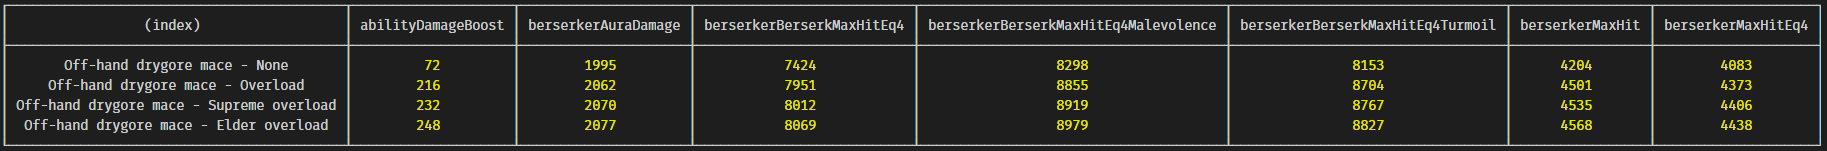
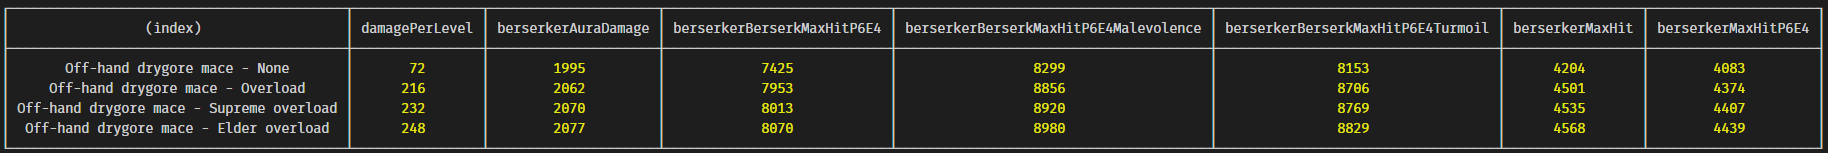
docs: Update sample

diff --git a/Readme.md b/Readme.md
@@ -46,30 +46,33 @@ Actual: 3577
 	Main-hand: 2.5*99 + 864*1 + 196
 	Off-hand: 1.25*99 + 432*1 + 0.5*196
 	Ability multiplier with P6E4 1.8254799999999998
+Damage per level
+	Expected:  5.1136 7.8688
+	Actual:  5.1136 7.8688
 --------
 Damage with None (+0) : 1960
-	Ability damage gets +0
+	Ability damage gets (P6E4) +0
 	Max hit: 3684
 	Max hit (P6E4): 3577
 	Berserk max hit (P6E4): 7154
 	Berserk Turmoil max hit (P6E4): 7869
 	Berserk Malevolence max hit (P6E4): 8012
 Damage with Overload (+17) : 2025
-	Ability damage gets +136
+	Ability damage gets (P6E4) +136
 	Max hit: 3943
 	Max hit (P6E4): 3832
 	Berserk max hit (P6E4): 7664
 	Berserk Turmoil max hit (P6E4): 8430
 	Berserk Malevolence max hit (P6E4): 8583
 Damage with Supreme overload (+19) : 2032
-	Ability damage gets +152
+	Ability damage gets (P6E4) +152
 	Max hit: 3972
 	Max hit (P6E4): 3861
 	Berserk max hit (P6E4): 7722
 	Berserk Turmoil max hit (P6E4): 8494
 	Berserk Malevolence max hit (P6E4): 8648
 Damage with Elder overload (+21) : 2040
-	Ability damage gets +168
+	Ability damage gets (P6E4) +168
 	Max hit: 4003
 	Max hit (P6E4): 3891
 	Berserk max hit (P6E4): 7782
@@ -79,51 +82,51 @@ Damage with Elder overload (+21) : 2040
 Off-hand: Off-hand drygore mace
 Damage with Berserker aura and None (level 108) : 1995
 	Ability damage gets +72
-	Ability damage with Eq4 gets +70.56
+	Ability damage with P6E4 gets +70.8192
 	Berserker Max hit: 4204
 	Max hit (Eq4): 4083
-	Berserker berserk max hit (Eq4): 7424
+	Berserker berserk max hit (Eq4): 7425
 	Berserker berserk turmoil max hit (Eq4): 8153
-	Berserker berserk malevolence max hit (Eq4): 8298
+	Berserker berserk malevolence max hit (Eq4): 8299
 --------
 Off-hand: Off-hand drygore mace
 Damage with Berserker aura and Overload (level 126) : 2062
 	Ability damage gets +216
-	Ability damage with Eq4 gets +211.68
+	Ability damage with P6E4 gets +212.4576
 	Berserker Max hit: 4501
-	Max hit (Eq4): 4373
-	Berserker berserk max hit (Eq4): 7951
-	Berserker berserk turmoil max hit (Eq4): 8704
-	Berserker berserk malevolence max hit (Eq4): 8855
+	Max hit (Eq4): 4374
+	Berserker berserk max hit (Eq4): 7953
+	Berserker berserk turmoil max hit (Eq4): 8706
+	Berserker berserk malevolence max hit (Eq4): 8856
 --------
 Off-hand: Off-hand drygore mace
 Damage with Berserker aura and Supreme overload (level 128) : 2070
 	Ability damage gets +232
-	Ability damage with Eq4 gets +227.36
+	Ability damage with P6E4 gets +228.1952
 	Berserker Max hit: 4535
-	Max hit (Eq4): 4406
-	Berserker berserk max hit (Eq4): 8012
-	Berserker berserk turmoil max hit (Eq4): 8767
-	Berserker berserk malevolence max hit (Eq4): 8919
+	Max hit (Eq4): 4407
+	Berserker berserk max hit (Eq4): 8013
+	Berserker berserk turmoil max hit (Eq4): 8769
+	Berserker berserk malevolence max hit (Eq4): 8920
 --------
 Off-hand: Off-hand drygore mace
 Damage with Berserker aura and Elder overload (level 130) : 2077
 	Ability damage gets +248
-	Ability damage with Eq4 gets +243.04
+	Ability damage with P6E4 gets +243.9328
 	Berserker Max hit: 4568
-	Max hit (Eq4): 4438
-	Berserker berserk max hit (Eq4): 8069
-	Berserker berserk turmoil max hit (Eq4): 8827
-	Berserker berserk malevolence max hit (Eq4): 8979
+	Max hit (Eq4): 4439
+	Berserker berserk max hit (Eq4): 8070
+	Berserker berserk turmoil max hit (Eq4): 8829
+	Berserker berserk malevolence max hit (Eq4): 8980
 --------
-┌──────────────────────────────────────────┬────────────────────┬─────────────────────┬───────────────────────────┬──────────────────────────────────────┬──────────────────────────────────┬─────────────────┬────────────────────┐
-│                 (index)                  │ abilityDamageBoost │ berserkerAuraDamage │ berserkerBerserkMaxHitEq4 │ berserkerBerserkMaxHitEq4Malevolence │ berserkerBerserkMaxHitEq4Turmoil │ berserkerMaxHit │ berserkerMaxHitEq4 │
-├──────────────────────────────────────────┼────────────────────┼─────────────────────┼───────────────────────────┼──────────────────────────────────────┼──────────────────────────────────┼─────────────────┼────────────────────┤
-│       Off-hand drygore mace - None       │         72         │        1995         │           7424            │                 8298                 │               8153               │      4204       │        4083        │
-│     Off-hand drygore mace - Overload     │        216         │        2062         │           7951            │                 8855                 │               8704               │      4501       │        4373        │
-│ Off-hand drygore mace - Supreme overload │        232         │        2070         │           8012            │                 8919                 │               8767               │      4535       │        4406        │
-│  Off-hand drygore mace - Elder overload  │        248         │        2077         │           8069            │                 8979                 │               8827               │      4568       │        4438        │
-└──────────────────────────────────────────┴────────────────────┴─────────────────────┴───────────────────────────┴──────────────────────────────────────┴──────────────────────────────────┴─────────────────┴────────────────────┘
+┌──────────────────────────────────────────┬────────────────┬─────────────────────┬────────────────────────────┬───────────────────────────────────────┬───────────────────────────────────┬─────────────────┬─────────────────────┐
+│                 (index)                  │ damagePerLevel │ berserkerAuraDamage │ berserkerBerserkMaxHitP6E4 │ berserkerBerserkMaxHitP6E4Malevolence │ berserkerBerserkMaxHitP6E4Turmoil │ berserkerMaxHit │ berserkerMaxHitP6E4 │
+├──────────────────────────────────────────┼────────────────┼─────────────────────┼────────────────────────────┼───────────────────────────────────────┼───────────────────────────────────┼─────────────────┼─────────────────────┤
+│       Off-hand drygore mace - None       │       72       │        1995         │            7425            │                 8299                  │               8153                │      4204       │        4083         │
+│     Off-hand drygore mace - Overload     │      216       │        2062         │            7953            │                 8856                  │               8706                │      4501       │        4374         │
+│ Off-hand drygore mace - Supreme overload │      232       │        2070         │            8013            │                 8920                  │               8769                │      4535       │        4407         │
+│  Off-hand drygore mace - Elder overload  │      248       │        2077         │            8070            │                 8980                  │               8829                │      4568       │        4439         │
+└──────────────────────────────────────────┴────────────────┴─────────────────────┴────────────────────────────┴───────────────────────────────────────┴───────────────────────────────────┴─────────────────┴─────────────────────┘
 
 ```
 
